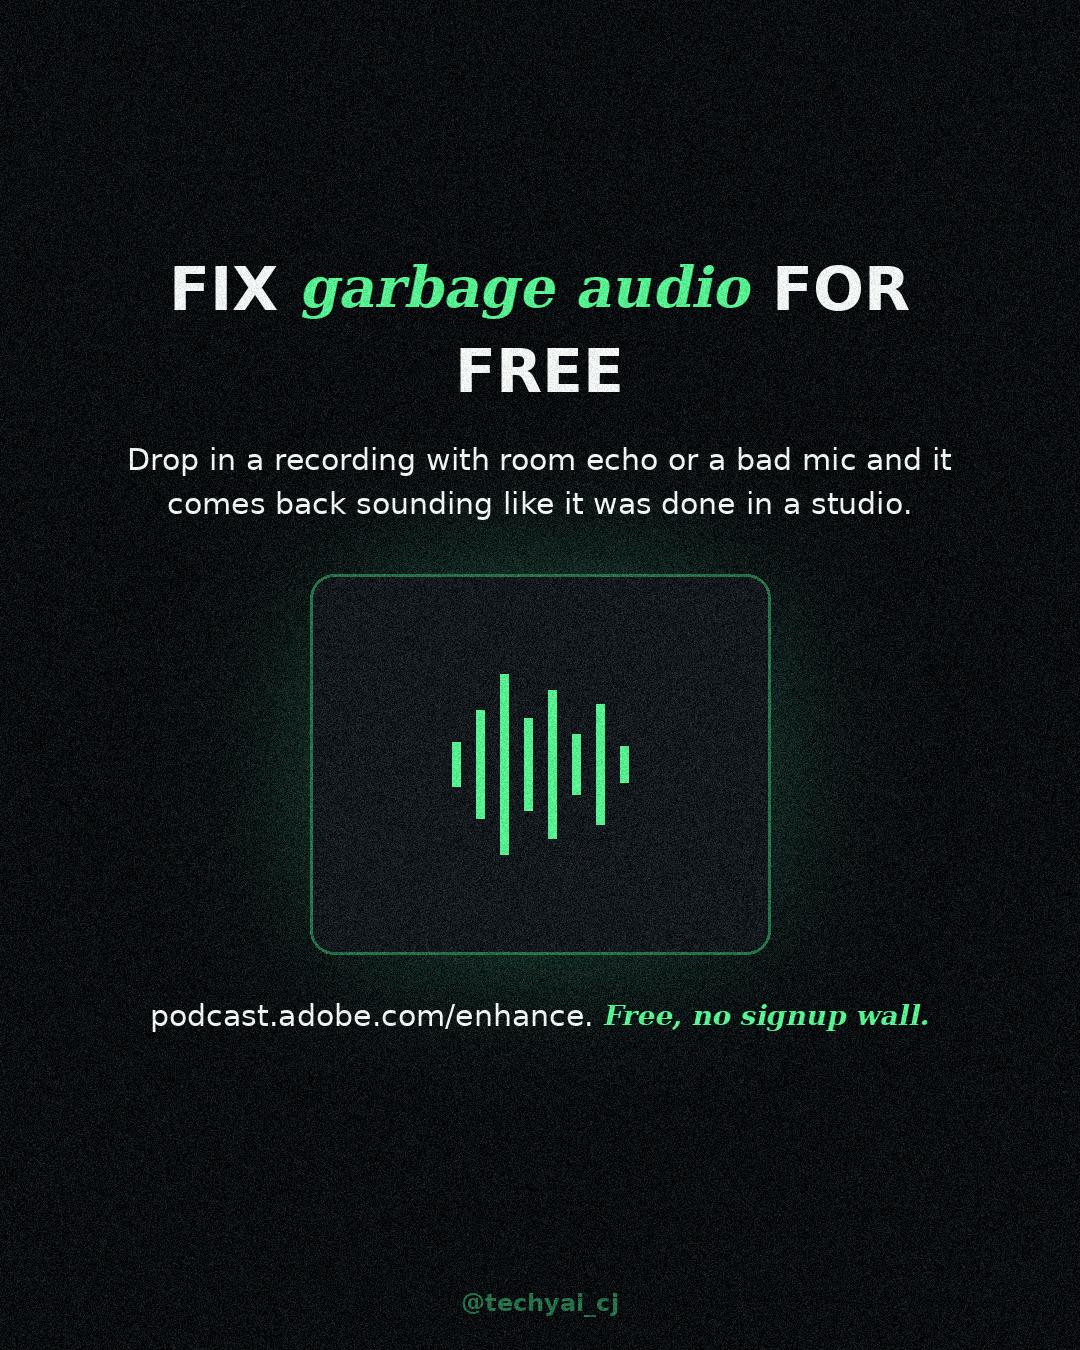
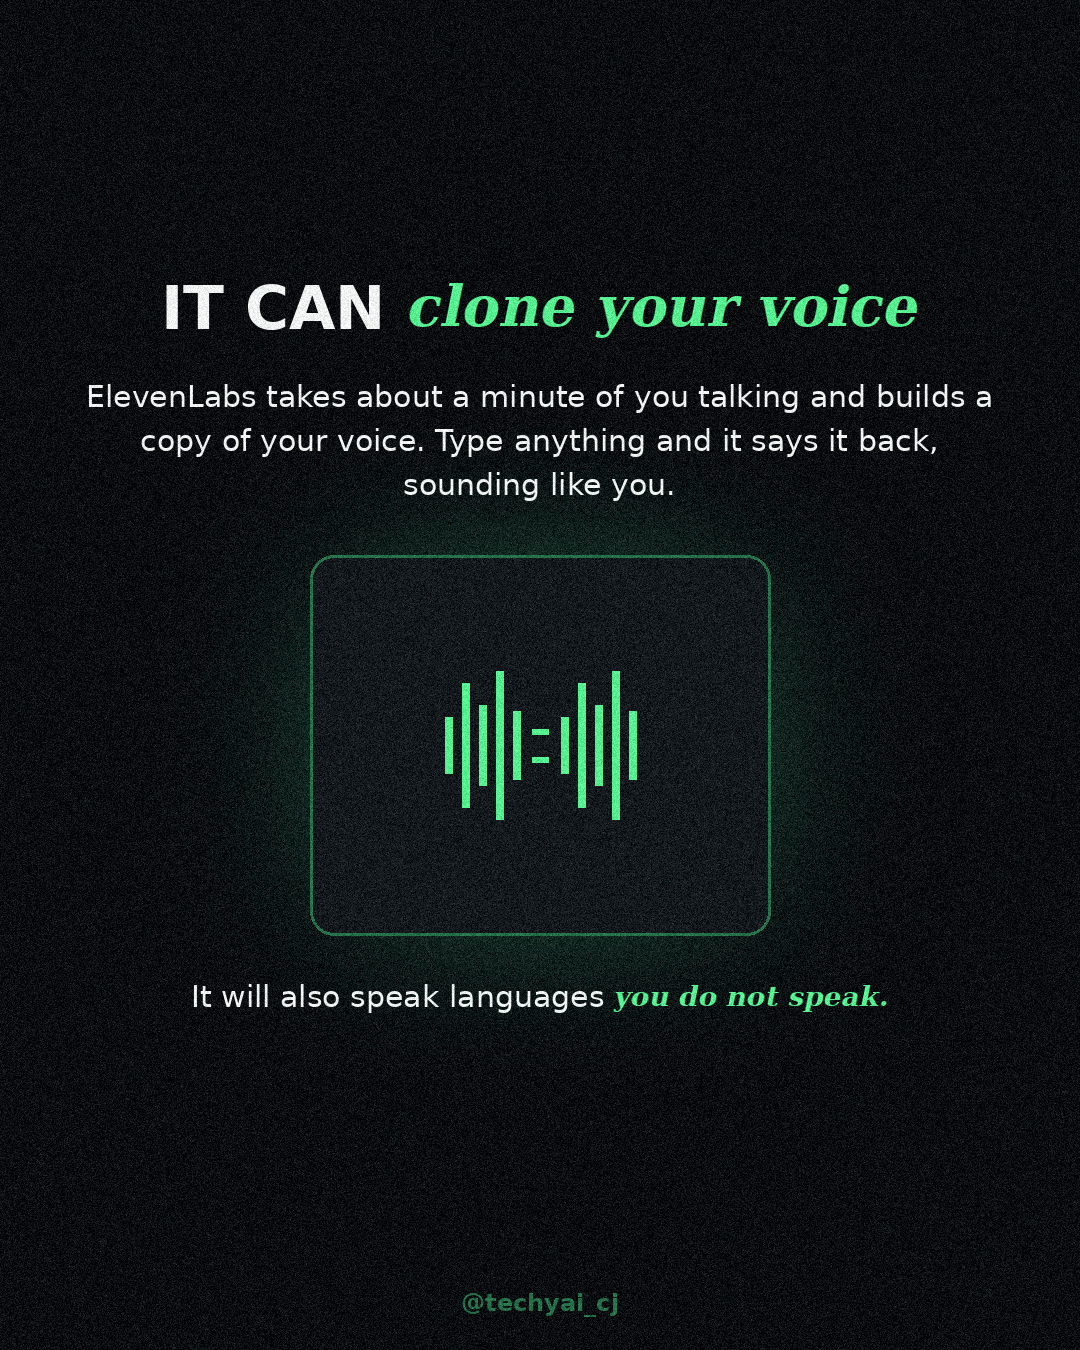
Rework AI part 3 around named tools: ElevenLabs, NotebookLM, Suno

Changed region(s): [[0.0917, 0.1867, 0.9167, 0.4356], [0.1222, 0.6844, 0.8556, 0.7778], [0.3972, 0.4978, 0.6111, 0.6222]]

diff --git a/carousel-maker/make_editorial.py b/carousel-maker/make_editorial.py
@@ -201,6 +201,31 @@ def glyph(d, cx, cy, kind, color, s=1.0, t=None):
         R(46, -56, 118, 34, r=10)
         d.polygon([(cx + 68 * s, cy - 30 * s), (cx + 68 * s, cy + 10 * s),
                    (cx + 100 * s, cy - 10 * s)], fill=color)
+    elif kind == "clone":
+        gap = 0 if t is None else math.sin(t * 2 * math.pi) * 5
+        for side, sign in ((-1, -1), (1, 1)):
+            base = side * 58 + sign * gap
+            for i, h in enumerate((28, 62, 40, 74, 34)):
+                L((base + (i - 2) * 17, -h), (base + (i - 2) * 17, h), w=8)
+        L((-8, -14), (8, -14), w=6)
+        L((-8, 14), (8, 14), w=6)
+    elif kind == "docwave":
+        R(-112, -78, -22, 78, r=12)
+        for y in (-42, -12, 18):
+            L((-92, y), (-42, y), w=6)
+        for i, h in enumerate((22, 52, 34, 66, 30)):
+            if t is not None:
+                h = 18 + abs(h - 18) * (0.55 + 0.45 * math.sin((t + i * 0.13) * 2 * math.pi))
+            x = 6 + i * 24
+            L((x, -h), (x, h), w=8)
+    elif kind == "note":
+        bob = 0 if t is None else math.sin(t * 2 * math.pi) * 5
+        E(-92, 30 + bob, -30, 84 + bob, w=8)
+        L((-30, 57 + bob), (-30, -76 + bob), w=8)
+        E(28, 6 + bob, 90, 60 + bob, w=8)
+        L((90, 33 + bob), (90, -96 + bob), w=8)
+        L((-30, -76 + bob), (90, -96 + bob), w=8)
+        L((-30, -44 + bob), (90, -64 + bob), w=8)
     elif kind == "split":
         sp = 0 if t is None else math.sin(t * 2 * math.pi) * 12
         for i, h in enumerate((26, 58, 84, 40)):
